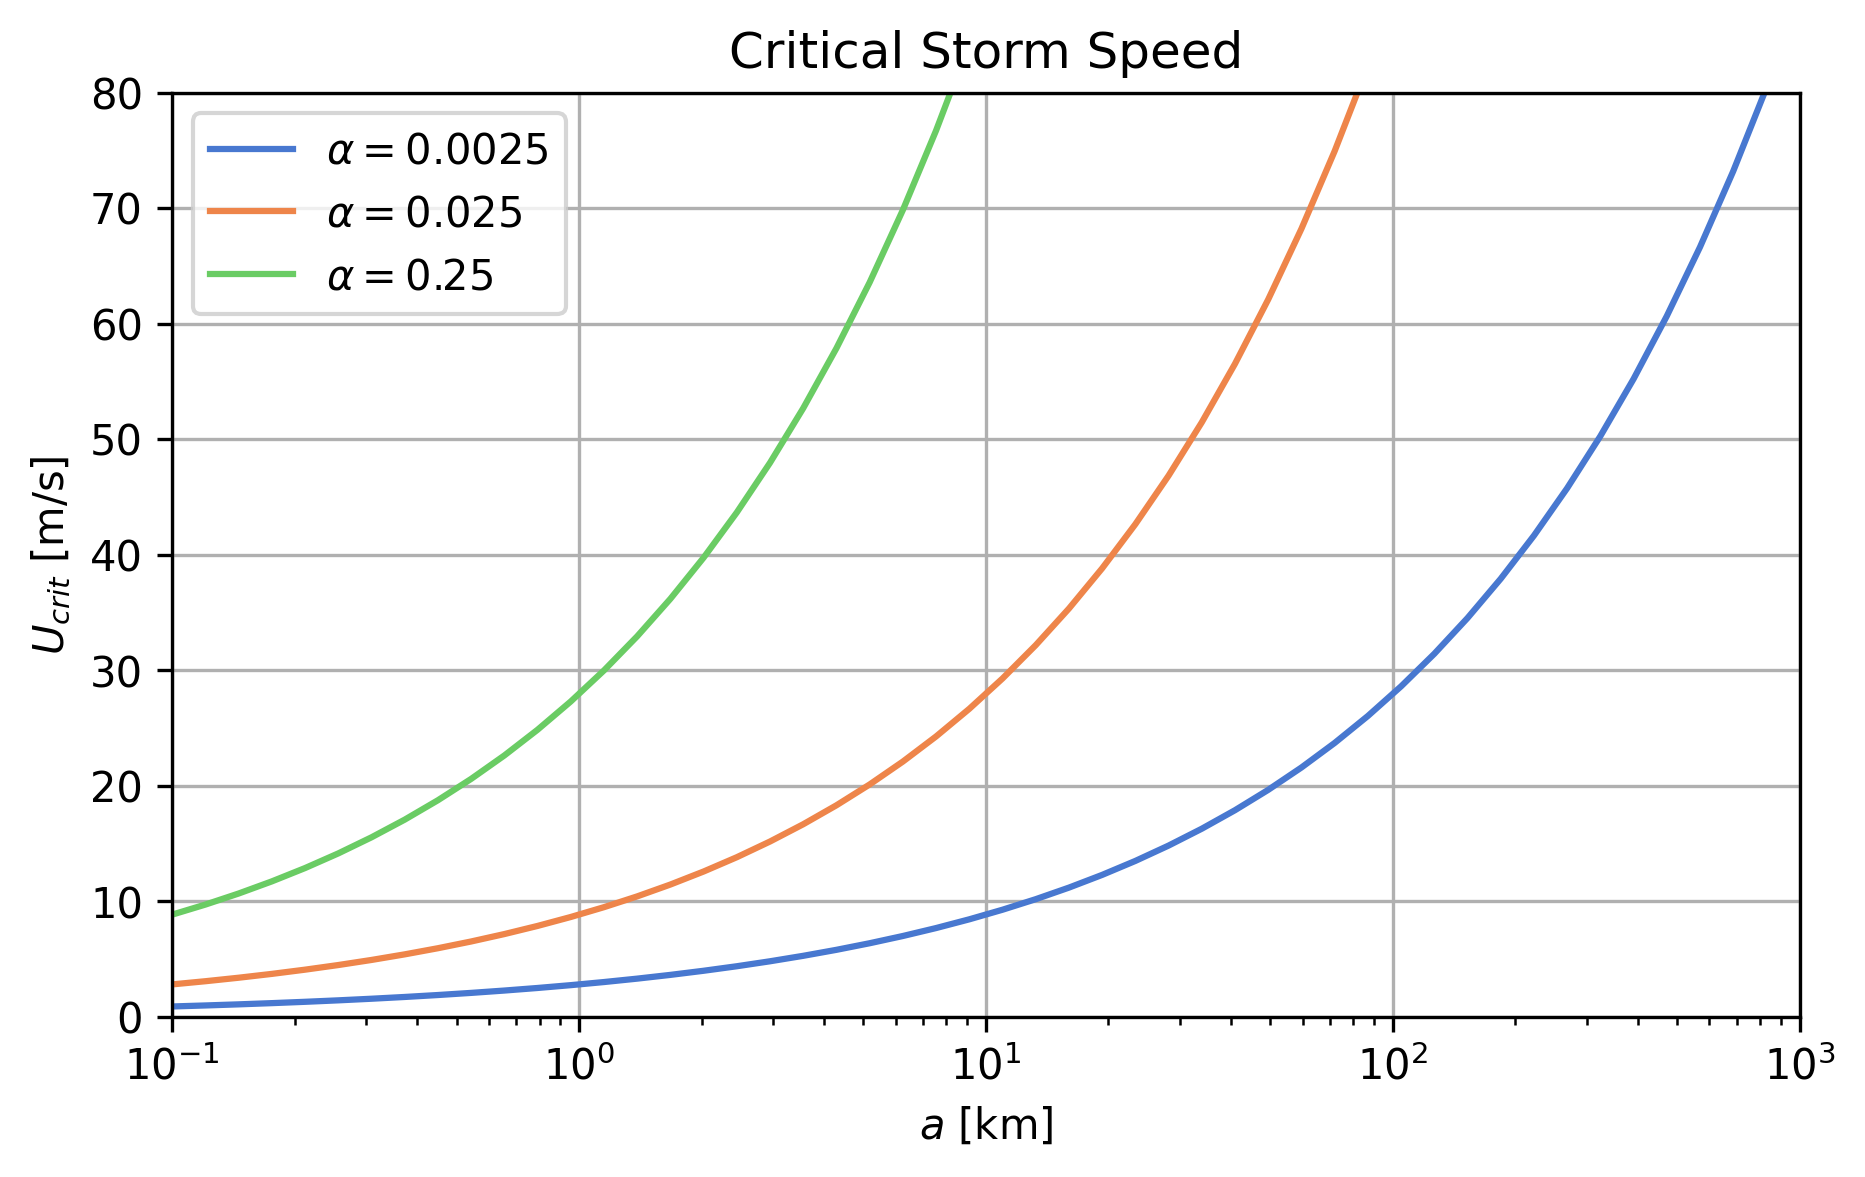
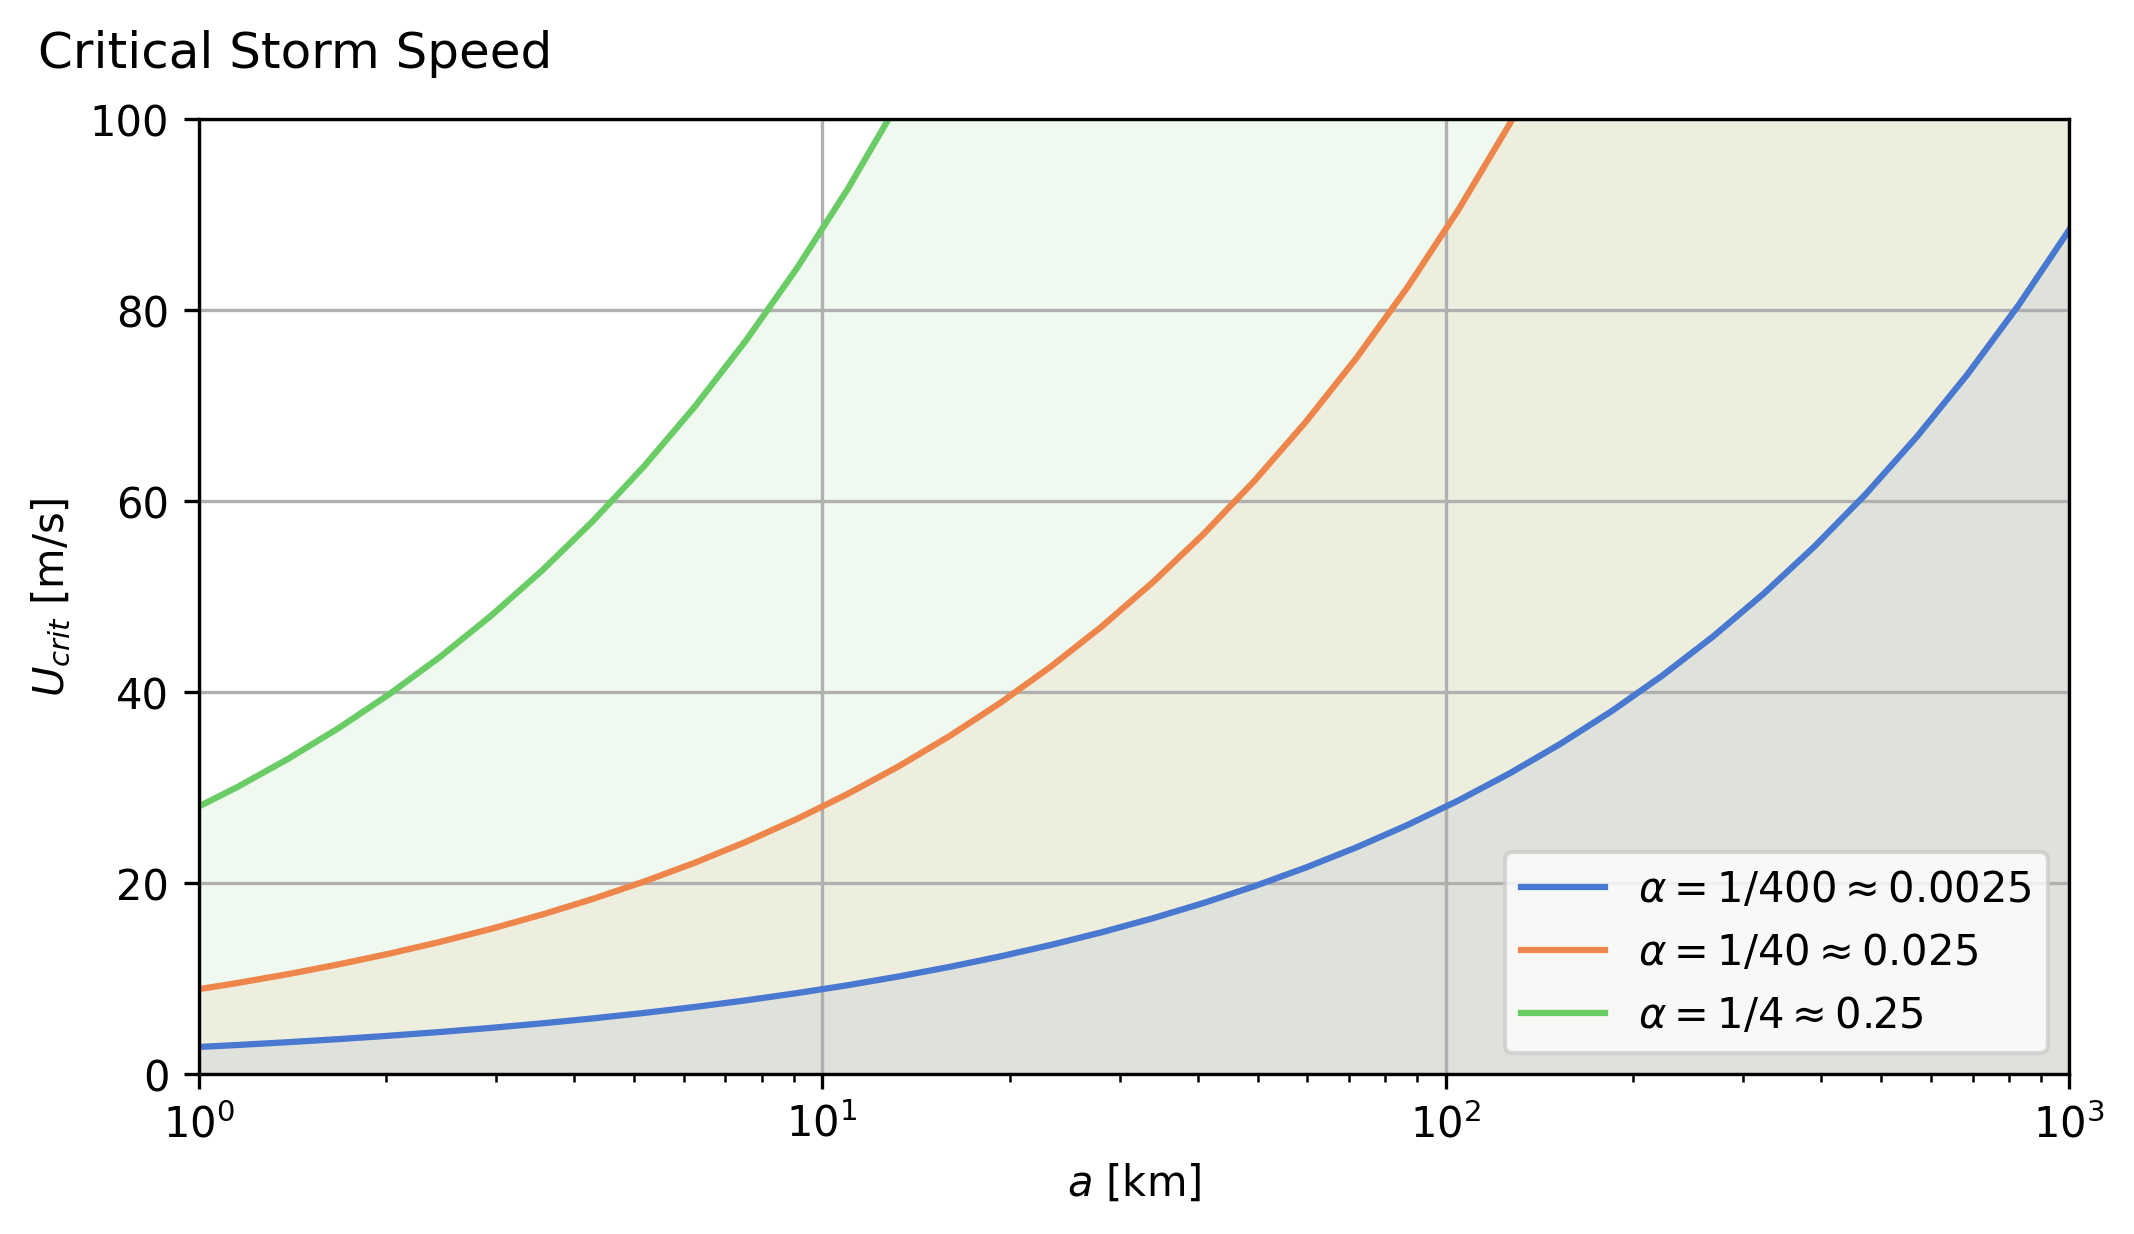
update figures

diff --git a/theory/theory_part1.py b/theory/theory_part1.py
@@ -6,7 +6,6 @@ import sys
 import matplotlib.pyplot as plt
 import numpy as np
 import numpy.typing as npt
-import scipy.constants
 
 try:
     import cartopy.crs as ccrs
@@ -16,44 +15,50 @@ except:
     print("Cartopy is not installed!")
     create_map = False
 
+# fmt: off
 # fix for importing functions below
 sys.path.append(os.path.dirname(os.path.dirname(os.path.realpath(__file__))))
 from functions import *
-
-
-### Functions
-def u_crit(a, alpha):
-    """ Computes critical velocity of pressure perturbation for given size `a` and bottom slope `alpha` """
-    return np.sqrt(g * a * alpha / np.pi)
-
-def wavelength(U, alpha):
-    """ Computes wavelength for given velocity `U` and bottom slope `alpha` """
-    return 2. * np.pi * U * U / g / alpha
+import functions.theory as ft
+# fmt: on
 
 
 ### Speed
-def theory_figure_speed_vs_size(a: npt.ArrayLike, savename: str=None) -> None:
+def theory_figure_speed_vs_size(a: npt.ArrayLike, alpha: npt.ArrayLike, savename: str = None) -> None:
     """ Plots the relation between critical velocity and pressure disturbance size
 
     Input:
-        a:          array with pressure disturbance size
+        `a`:        array with pressure disturbance size
+        `alpha`:    array with bottom slope
 
     Options:
-        savename    figure name
+        `savename`  figure name
     """
+    # Arguments
     if savename is None:
         savename = f"{figure_dir}/line_speed_size"
 
-    plt.figure(figsize=FIGSIZE_NORMAL, dpi=FIG_DPI)
+    # Computations
+    grid_a, grid_alpha = np.meshgrid(a, alpha, sparse=True)
+    u_crit = ft.critical_velocity_sloped(grid_a, grid_alpha)
+
+    # Figure
+    fig = plt.figure()
+    fig.set_size_inches(FIGSIZE_NORMAL)
+    fig.set_dpi(FIG_DPI)
+    fig.set_layout_engine("compressed")
+    fig.suptitle("Critical Storm Speed", va="top", ha="left", x=0.01)
+
     for i in range(alpha.size):
-        plt.semilogx(a / 1000., u_crit(a, alpha[i]), label=f"$\\alpha = {alpha[i]}$")
+        plt.semilogx(a / 1000., u_crit[i,:], label=f"$\\alpha = 1/{1/alpha[i]:.0f} \\approx {alpha[i]}$")
+        plt.fill_between(a / 1000., u_crit[i,:], alpha=0.1)
     plt.legend()
-    plt.title("Critical Storm Speed")
     plt.xlabel("$a$ [km]")
     plt.ylabel("$U_{crit}$ [m/s]")
     plt.grid()
-    plt.ylim(0, 80)
-    plt.xlim(1e-1, 1e3)
+    plt.ylim(0, 100)
+    plt.xlim(1e0, 1e3)
+    fig.get_layout_engine().execute(fig)
     plt.savefig(savename, bbox_inches="tight", dpi=FIG_DPI, pil_kwargs=FIG_PIL_KWARGS)
 
     print(f"Saved figure {savename}")
@@ -61,31 +66,45 @@ def theory_figure_speed_vs_size(a: npt.ArrayLike, savename: str=None) -> None:
 
 
 ### Wavelength
-def theory_figure_wavelength_vs_size(a: npt.ArrayLike, savename: str=None) -> None:
+def theory_figure_wavelength_vs_size(a: npt.ArrayLike, alpha: npt.ArrayLike, savename: str=None) -> None:
     """ Plots the relation between wavelength and pressure disturbance size
 
     Input:
-        a:          array with pressure disturbance size
+        `a`:        array with pressure disturbance size
+        `alpha`:    array with bottom slope
 
     Options:
-        savename    figure name
+        `savename`  figure name
     """
+    # Arguments
     if savename is None:
         savename = f"{figure_dir}/line_wavelength_size"
 
-    plt.figure(figsize=FIGSIZE_NORMAL, dpi=FIG_DPI)
+    # Computations
+    grid_a, grid_alpha = np.meshgrid(a, alpha, sparse=True)
+    u_crit = ft.critical_velocity_sloped(grid_a, grid_alpha)
+    wavelength = ft.fundamental_wavelength_sloped(u_crit, grid_alpha)
+
+    # Figure
+    fig = plt.figure()
+    fig.set_size_inches(FIGSIZE_NORMAL)
+    fig.set_dpi(FIG_DPI)
+    fig.set_layout_engine("compressed")
+    fig.suptitle("Wavelength of Edge Wave Packet", va="top", ha="left", x=0.01)
+
     for i in range(alpha.size):
-        plt.plot(a / 1000., wavelength(u_crit(a, alpha[i]), alpha[i]) / 1000., label=f"$\\alpha = {alpha[i]}$")
+        plt.plot(a / 1000., wavelength[i,:] / 1000., label=f"$\\alpha = 1/{1/alpha[i]:.0f} \\approx {alpha[i]}$")
+        plt.fill_between(a / 1000., wavelength[i,:] / 1000., alpha=0.1)
     plt.plot(a / 1000., 2. * a / 1000., color="black", linestyle="--", linewidth=1, label="$2a$")
     plt.legend()
-    plt.title("Wavelength of Edge Wave Packet")
     plt.xlabel("$a$ [km]")
     plt.ylabel("$\\lambda$ [km]")
-    plt.xlim(0, 1000)
-    plt.ylim(0, None)
-    plt.xticks(np.arange(0, 1001, 100))
-    plt.yticks(np.arange(0, 2001, 200))
+    plt.xticks(np.arange(0, 301, 100))
+    plt.yticks(np.arange(0, 601, 200))
+    plt.xlim(0, 300)
+    plt.ylim(0, 700)
     plt.grid()
+    fig.get_layout_engine().execute(fig)
     plt.savefig(savename, bbox_inches="tight", dpi=FIG_DPI, pil_kwargs=FIG_PIL_KWARGS)
 
     print(f"Saved figure {savename}")
@@ -99,10 +118,17 @@ def theory_figure_map(savename: str=None) -> None:
     Options:
         savename    figure name
     """
+    # Arguments
     if savename is None:
         savename = f"{figure_dir}/map"
 
-    fig = plt.figure(figsize=FIGSIZE_NORMAL, dpi=FIG_DPI)
+    # Figure
+    fig = plt.figure()
+    fig.set_size_inches(FIGSIZE_NORMAL)
+    fig.set_dpi(FIG_DPI)
+    fig.set_layout_engine("compressed")
+    fig.suptitle("Area of Interest", va="top", ha="left", x=0.01)
+
     ax = fig.add_subplot(projection=ccrs.PlateCarree())
     ax.coastlines("50m")
     ax.add_feature(
@@ -116,6 +142,7 @@ def theory_figure_map(savename: str=None) -> None:
     ax.set_ylim([45, 60])
     # plt.xlabel("Longitude")
     # plt.ylabel("Latitude")
+    fig.get_layout_engine().execute(fig)
     plt.savefig(savename, bbox_inches="tight", dpi=FIG_DPI, pil_kwargs=FIG_PIL_KWARGS)
 
     print(f"Saved figure {savename}")
@@ -129,17 +156,13 @@ if __name__ == "__main__":
     figure_dir = f"{current_dir}/figures"
     os.makedirs(figure_dir, exist_ok=True)
 
-    # Constants
-    g = scipy.constants.g
-    assert np.abs(g - 9.81) < 1e-2
-
     # Parameters
     a = np.logspace(2, 6)
     alpha = np.array([1/400, 1/40, 1/4])
 
     # Figures
-    theory_figure_speed_vs_size(a)
-    theory_figure_wavelength_vs_size(a)
+    theory_figure_speed_vs_size(a, alpha)
+    theory_figure_wavelength_vs_size(a, alpha)
     if create_map:
         theory_figure_map()
 
